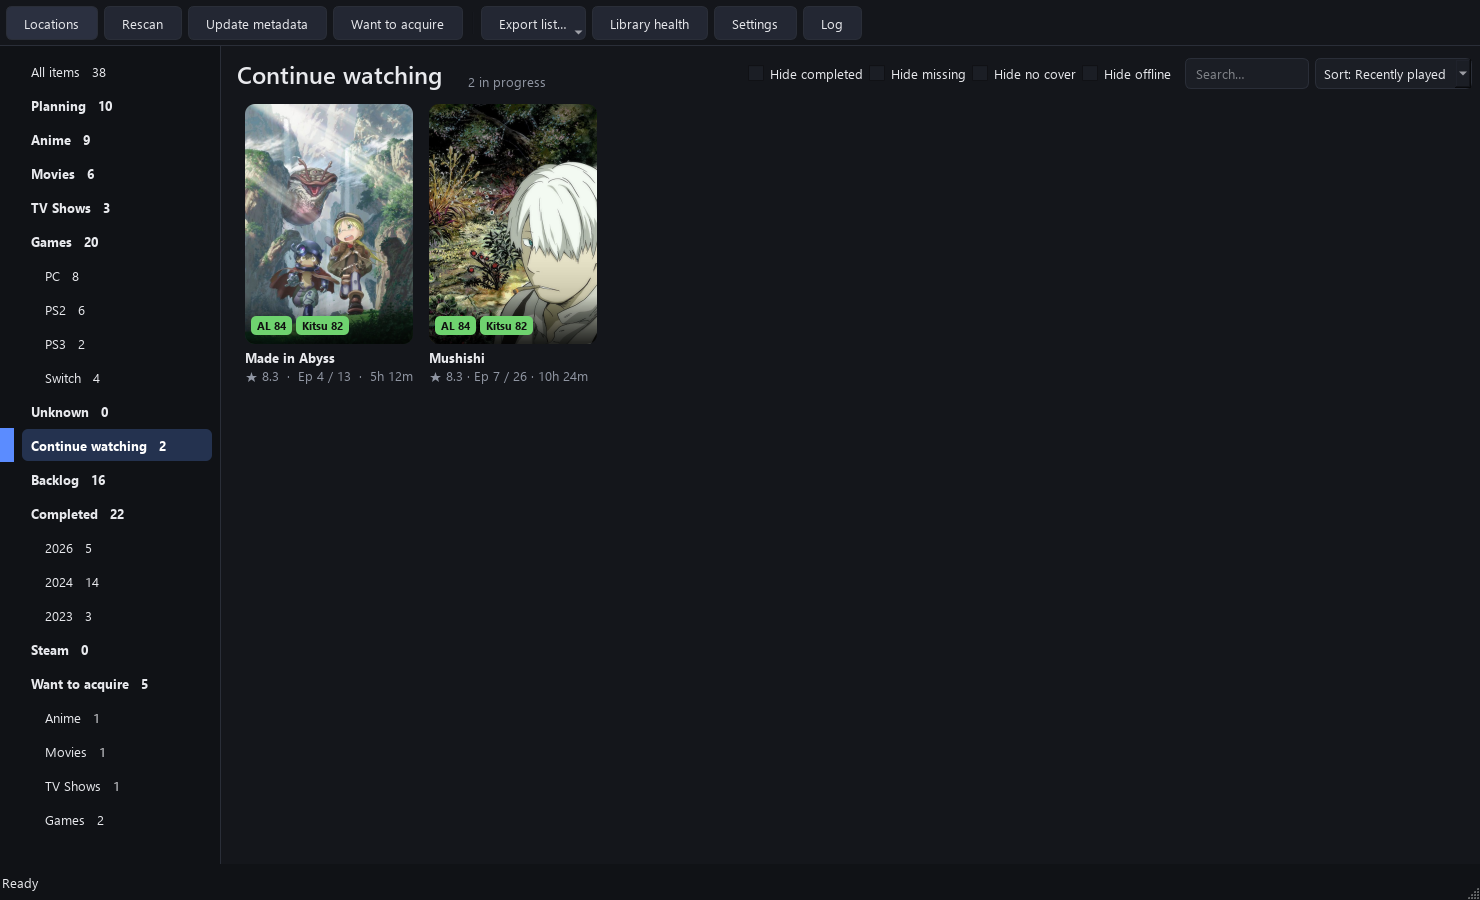
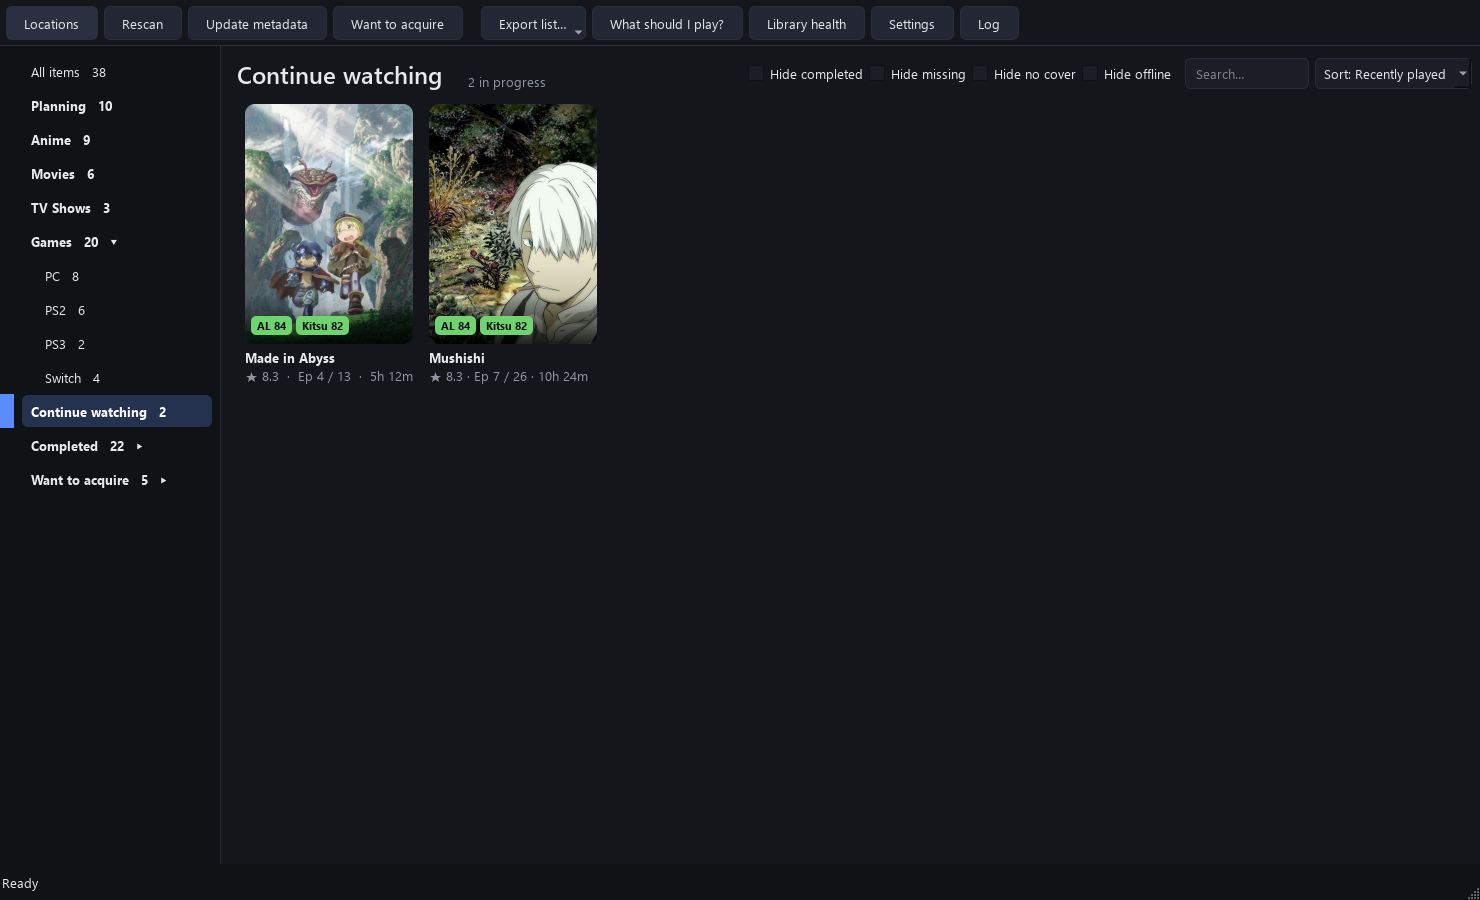
Leaner sidebar: Steam under Games, no Backlog, foldable sections
- Steam account games are a child of Games (Include Steam still adds them to
  Games / All items); hidden when no account is linked.
- The Backlog entry and its view are gone (the picker still uses the
  backlog); an empty Unknown and empty Want to acquire sections hide.
- Games, Completed and Want to acquire fold (shown as ▸ / ▾ after the
  count; double-click, or click a selected section); remembered, folded by
  default, and a selected entry opens its section.
- README and screenshots updated.

diff --git a/tracking/ui/main_window.py b/tracking/ui/main_window.py
@@ -62,7 +62,6 @@ COMPLETED = "completed"  # sidebar navigation: (COMPLETED, year or None)
 PLANNING = "planning"  # sidebar navigation: (PLANNING, None), the Planning board
 FOCUS = "focus"  # (FOCUS, heading): a list picked elsewhere (Library health › Show)
 WATCHING = "watching"  # sidebar navigation: (WATCHING, None), series you're partway through
-BACKLOG = "backlog"  # sidebar navigation: (BACKLOG, category or None), owned and not finished
 STEAM = "steam"  # sidebar navigation: (STEAM, None) is the games of your Steam accounts
 
 
@@ -83,6 +82,16 @@ def watching(item: db.Item) -> bool:
 def played_order(item: db.Item) -> tuple:
     """"Time played" sort: most played first, never-played next, unknown last."""
     return (item.playtime_min is None, -(item.playtime_min or 0), item.title.lower())
+
+
+TextRole = Qt.UserRole + 11  # a sidebar section's text without its ▸ / ▾
+
+
+def _chevron(node: QTreeWidgetItem) -> None:
+    """▸ folded / ▾ open after a section's count (the theme hides Qt's own arrows)."""
+    base = node.data(0, TextRole) or node.text(0)
+    if node.childCount():
+        node.setText(0, f"{base}   {'▾' if node.isExpanded() else '▸'}")
 
 
 def _child_node(parent: QTreeWidgetItem, text: str, nav: tuple) -> QTreeWidgetItem:
@@ -183,6 +192,12 @@ class MainWindow(QMainWindow):
         self.sidebar.setMinimumWidth(200)
         self.sidebar.setMaximumWidth(280)
         self.sidebar.currentItemChanged.connect(self._nav_changed)
+        self.sidebar.itemExpanded.connect(self._section_folded)
+        self.sidebar.itemCollapsed.connect(self._section_folded)
+        # A second click on a selected section opens / closes it (double-click does too).
+        self.sidebar.itemClicked.connect(self._toggle_if_selected)
+        self._was_current = None
+        self.sidebar.currentItemChanged.connect(lambda cur, prev: setattr(self, "_was_current", prev))
         split.addWidget(self.sidebar)
 
         self.stack = QStackedWidget()
@@ -563,6 +578,30 @@ class MainWindow(QMainWindow):
         """The page to go back to from an item: the board, a Completed year, or the grid."""
         return {COMPLETED: 2, PLANNING: 3}.get(self.nav[0], 0)
 
+    SIDEBAR_OPEN = "sidebar_open"
+
+    def _open_sections(self) -> set[str]:
+        with db.session() as conn:
+            saved = db.get_setting(conn, self.SIDEBAR_OPEN, None)
+        return set(saved.split(",")) if saved is not None else set()
+
+    def _section_folded(self, node: QTreeWidgetItem, *_) -> None:
+        """Remember which sidebar sections are open."""
+        nav = node.data(0, NavRole)
+        if not nav or node.parent() is not None:
+            return
+        _chevron(node)
+        key = nav[0] or ""
+        open_ = self._open_sections()
+        open_ = open_ | {key} if node.isExpanded() else open_ - {key}
+        with db.session() as conn:
+            db.set_setting(conn, self.SIDEBAR_OPEN, ",".join(sorted(k for k in open_ if k)))
+
+    def _toggle_if_selected(self, item: QTreeWidgetItem, _col: int = 0) -> None:
+        if item.childCount() and self._was_current is item:
+            item.setExpanded(not item.isExpanded())
+        self._was_current = item
+
     def _top_node(self, text: str, nav: tuple, tip: str | None = None) -> QTreeWidgetItem:
         """A bold top-level sidebar entry."""
         node = QTreeWidgetItem([text])
@@ -591,16 +630,28 @@ class MainWindow(QMainWindow):
                               "Up next, Playing / Watching, On hold and Done this year")
         if self.nav == (PLANNING, None):
             current = plan
+        open_ = self._open_sections()
+        parents: list[tuple[QTreeWidgetItem, str]] = []
         for key, label in SECTIONS:
-            node = self._top_node(f"{label}   {counts.get(key, 0)}", (key, None))
+            n = counts.get(key, 0)
+            if not n and key == "unknown" and self.nav[0] != key:
+                continue  # an empty "Unknown" is just noise
+            node = self._top_node(f"{label}   {n}", (key, None))
             if self.nav == (key, None):
                 current = node
             if key == "game":
-                for plat, n in plats.items():
-                    child = _child_node(node, f"{plat}   {n}", ("game", plat))
+                for plat, pn in plats.items():
+                    child = _child_node(node, f"{plat}   {pn}", ("game", plat))
                     if self.nav == ("game", plat):
                         current = child
-                node.setExpanded(True)
+                if steam_games or self.nav[0] == STEAM:
+                    # Steam account games: here, apart from the library (Include Steam adds
+                    # them to Games and All items).
+                    child = _child_node(node, f"Steam   {steam_games}", (STEAM, None))
+                    child.setToolTip(0, "Games from your Steam account, with play time")
+                    if self.nav == (STEAM, None):
+                        current = child
+                parents.append((node, "game"))
 
         # Continue watching: series you're partway through (only when there are some).
         started = sum(1 for i in self.all_items if watching(i))
@@ -609,21 +660,6 @@ class MainWindow(QMainWindow):
                                   "Series you've started playing from here, most recent first")
             if self.nav == (WATCHING, None):
                 current = node
-
-        # Backlog: what you have and haven't finished yet, per section.
-        backlog: dict[str, int] = {}
-        for i in self.all_items:
-            if in_backlog(i):
-                backlog[i.category] = backlog.get(i.category, 0) + 1
-        node = self._top_node(f"Backlog   {sum(backlog.values())}", (BACKLOG, None),
-                              "What you have and haven't finished. Try Sort: Shortest first.")
-        if self.nav == (BACKLOG, None):
-            current = node
-        for key, label in SECTIONS:
-            if backlog.get(key):
-                child = _child_node(node, f"{label}   {backlog[key]}", (BACKLOG, key))
-                if self.nav == (BACKLOG, key):
-                    current = child
 
         # Completed: everything you finished, per year (also entries outside the library).
         done_years = done_years or {}
@@ -636,27 +672,27 @@ class MainWindow(QMainWindow):
             child = _child_node(done, f"{year}   {n}", (COMPLETED, year))
             if self.nav == (COMPLETED, year):
                 current = child
-        done.setExpanded(True)
+        parents.append((done, COMPLETED))
 
-        # Steam: the games your Steam accounts own, apart from the library.
-        node = self._top_node(f"Steam   {steam_games}", (STEAM, None),
-                              "Games from your Steam account, with play time "
-                              "(Locations › Add Steam account)")
-        if self.nav == (STEAM, None):
-            current = node
-
-        # "Want to acquire": things you don't have yet, per section.
+        # "Want to acquire": things you don't have yet, per section (only sections with some).
         wanted = wanted or {}
         want = self._top_node(f"Want to acquire   {sum(wanted.values())}", (WANT, None))
         if self.nav == (WANT, None):
             current = want
         for key, label in SECTIONS:
-            if key == "unknown":
+            if not wanted.get(key) and self.nav != (WANT, key):
                 continue
             child = _child_node(want, f"{label}   {wanted.get(key, 0)}", (WANT, key))
             if self.nav == (WANT, key):
                 current = child
-        want.setExpanded(True)
+        parents.append((want, WANT))
+
+        # Subsections fold away (the arrow, or double-click); what's open is remembered,
+        # and a selected entry inside a folded section opens it.
+        for node, key in parents:
+            node.setData(0, TextRole, node.text(0))
+            node.setExpanded(key in open_ or current.parent() is node)
+            _chevron(node)
         if self.nav[0] != FOCUS:  # a Library health list isn't a sidebar entry
             self.sidebar.setCurrentItem(current)
         else:
@@ -703,10 +739,9 @@ class MainWindow(QMainWindow):
             self.count.setToolTip("Enter opens a series, Ctrl+Enter plays its next episode")
             self.model.set_items(items)
             return
-        backlog_view = self.nav[0] == BACKLOG
         view = self.nav[0] if self.nav[0] in (WANT, STEAM) else None
         wanted_view, steam_view = view == WANT, view == STEAM
-        category, platform = (self.nav[1], None) if (view or backlog_view) else self.nav
+        category, platform = (self.nav[1], None) if view else self.nav
         needle = self.search.text().strip().lower()
         hide_done, hide_missing = self.hide_done.isChecked(), self.hide_missing.isChecked()
         hide_no_cover = self.hide_no_cover.isChecked()
@@ -714,7 +749,7 @@ class MainWindow(QMainWindow):
         games_view = category == "game"
         self.install.setVisible(games_view)
         inst = self.install.currentData() if games_view else ""
-        library_view = view is None and not backlog_view
+        library_view = view is None
         self.include_steam.setVisible(library_view and category in (None, "game")
                                       and any(view_of(i) == STEAM for i in self.all_items))
         with_steam = library_view and self.include_steam.isChecked()
@@ -723,7 +758,6 @@ class MainWindow(QMainWindow):
             i for i in self.all_items
             if (view_of(i) == view
                 or (with_steam and view_of(i) == STEAM and i.id not in dupes))
-            and (not backlog_view or in_backlog(i))
             and (not category or i.category == category)
             and (not platform or (i.platform or db.UNKNOWN_PLATFORM) == platform)
             and (not needle or needle in i.title.lower() or needle in i.rel_path.lower())
@@ -761,8 +795,6 @@ class MainWindow(QMainWindow):
             heading = f"Want to acquire · {heading}" if category else "Want to acquire"
         if steam_view:
             heading = "Steam"
-        if backlog_view:
-            heading = f"Backlog · {heading}" if category else "Backlog"
         self.heading.setText(heading)
         self.add_btn.setVisible(wanted_view or steam_view)
         self.add_btn.setText("+ Add Steam account…" if steam_view else "+ Add…")
@@ -773,9 +805,6 @@ class MainWindow(QMainWindow):
             played_h = sum(i.playtime_min or 0 for i in items) / 60
             done = sum(1 for i in items if i.completed)
             self.count.setText(f"{len(items)} games · {played_h:,.0f} h played · {done} completed")
-        elif backlog_view:
-            total_h = sum(i.total_hours or 0 for i in items)
-            self.count.setText(f"{len(items)} not finished yet · {total_h:,.0f} h in all")
         elif wanted_view:
             total_h = sum(i.total_hours or 0 for i in items)
             self.count.setText(f"{len(items)} items · {total_h:,.0f} h if you got them all")

diff --git a/tests/test_extras.py b/tests/test_extras.py
@@ -71,22 +71,43 @@ def test_presets_and_stamp(conn, qt):
     assert corner(plain) != corner(stamped)
 
 
-def test_backlog_and_shortest_first(conn, qt):
+def test_shortest_first_and_hide_completed(conn, qt):
     from tracking.ui import main_window
 
     _item(conn, "Long", hltb_hours=80.0)
     _item(conn, "Short", hltb_hours=5.0)
     _item(conn, "Unknown length")
     done = _item(conn, "Finished", hltb_hours=1.0, completed=1)
-    _item(conn, "Gone", hltb_hours=2.0, missing=1)
-    library.add_wanted(conn, "game", "Wanted", 2025)
     conn.commit()
     w = main_window.MainWindow()
-    w.nav = (main_window.BACKLOG, None)
+    w.nav = ("game", None)
     w.sort.setCurrentIndex(w.sort.findData("short"))
+    w.hide_done.setChecked(True)
     w.reload()
     assert [i.title for i in w.model.items] == ["Short", "Long", "Unknown length"]
     assert done not in {i.id for i in w.model.items}
+    assert library.in_backlog(next(i for i in w.all_items if i.title == "Short"))
+
+
+def test_lean_sidebar_folds_and_remembers(conn, qt):
+    from tracking.ui import main_window
+
+    _item(conn, "Okami")
+    conn.execute("INSERT INTO items(volume_uid, rel_path, is_dir, category, platform, title, source) "
+                 "VALUES('steam:1', 'app/1', 0, 'game', 'PC', 'Celeste', 'steam')")
+    conn.commit()
+    w = main_window.MainWindow()
+    tops = {w.sidebar.topLevelItem(i).text(0).split("   ")[0]: w.sidebar.topLevelItem(i)
+            for i in range(w.sidebar.topLevelItemCount())}
+    assert "Backlog" not in tops and "Steam" not in tops and "Unknown" not in tops
+    games = tops["Games"]
+    kids = [games.child(i).text(0).split("   ")[0] for i in range(games.childCount())]
+    assert kids == ["PS2", "Steam"] and not games.isExpanded()           # folded by default
+    games.setExpanded(True)                                               # you open it...
+    w.reload()
+    tops = {w.sidebar.topLevelItem(i).text(0).split("   ")[0]: w.sidebar.topLevelItem(i)
+            for i in range(w.sidebar.topLevelItemCount())}
+    assert tops["Games"].isExpanded()                                     # ...and it stays open
 
 
 def test_duplicates_and_health(conn):

diff --git a/tests/test_steam_account.py b/tests/test_steam_account.py
@@ -246,7 +246,9 @@ def test_steam_section_in_window(conn, monkeypatch):
     w = mw.MainWindow()
     try:
         tops = [w.sidebar.topLevelItem(n) for n in range(w.sidebar.topLevelItemCount())]
-        assert [t.text(0) for t in tops if t.data(0, mw.NavRole)[0] == mw.STEAM] == ["Steam   3"]
+        games = next(t for t in tops if t.data(0, mw.NavRole) == ("game", None))
+        kids = [games.child(n) for n in range(games.childCount())]   # Steam lives under Games
+        assert [k.text(0) for k in kids if k.data(0, mw.NavRole)[0] == mw.STEAM] == ["Steam   3"]
         assert tops[0].text(0) == "All items   0"         # not counted in the library
         w.nav = (None, None)
         w.apply_filter()

diff --git a/README.md b/README.md
@@ -31,8 +31,6 @@ remembers what you've finished, even when the drive is unplugged.
 - ⏱ **Total time** for everything: the runtime of all episodes, or HowLongToBeat hours for games.
 - ✅ **Completed log by year**: mark things done, import old years from CSV, edit dates, see
   each year's stats, and **export a year as a cover-grid image**.
-- 📚 **Backlog**: what you own and haven't finished, with a *Shortest first* sort for
-  "what next?".
 - 🗂 **Planning board**: *Up next*, *Playing / Watching*, *On hold* and *Done this year* for
   games, anime, movies and TV (show one section or combine several). Drag cards between columns; playing
   something moves it to *Playing* by itself, and each column adds up the hours left.
@@ -43,8 +41,10 @@ remembers what you've finished, even when the drive is unplugged.
 - ▶ **Play from the library**: PC games start their own .exe, console games open in the
   emulator you pick per platform (zipped discs are unpacked for you), Steam games in Steam.
   Filter games by *Installed*, *Installer* or *ROM / disc*, and sort by *Recently played*.
-- 🎮 **Steam accounts**: your owned games with **time played**, in their own section.
-- 🎲 **What should I play?**: one suggestion at a time from Up next and your Backlog, by
+- 🎮 **Steam accounts**: your owned games with **time played**, under Games › Steam; tick
+  *Include Steam* to see them with the rest of your games.
+- 🎲 **What should I play?**: one suggestion at a time from Up next and your backlog (what you
+  own and haven't finished), by
   section, length ("under 10 h") and what's on connected drives.
 - 📅 **Coming up** on each page: a show's next episode, when an anime's next episode airs, a
   game's release date and Steam sales.
@@ -105,20 +105,17 @@ with progress and hours left on every card.</sub></p>
       in bold); next episodes and air dates for shows and anime.</sub></td>
   </tr>
   <tr>
-    <td><img src="docs/images/backlog.png" alt="Backlog"><br>
-      <sub><b>Backlog</b>: what you have and haven't finished, here sorted
-      <i>Shortest first</i>.</sub></td>
+    <td><img src="docs/images/health.png" alt="Library health"><br>
+      <sub><b>Library health</b>: what needs a look, with Show and Fetch again.</sub></td>
     <td><img src="docs/images/want.png" alt="Want to acquire"><br>
       <sub><b>Want to acquire</b>: things you don't have yet, with covers and scores.</sub></td>
   </tr>
 </table>
 
 <details>
-<summary><b>More</b>: the exported image, and Library health</summary>
+<summary><b>More</b>: the exported image</summary>
 <br>
 <img src="docs/images/completed-2024.jpg" alt="Games completed in 2024" width="560">
-<br><br>
-<img src="docs/images/health.png" alt="Library health" width="560">
 </details>
 
 ## Getting started
@@ -152,7 +149,8 @@ holds (or leave *Auto-detect*), and it's scanned right away. Then:
 | **Ctrl+N** | Add to *Want to acquire*, or a *Completed* entry when you're there |
 | **Right-click** | Move to another section / platform, complete, refetch, remove |
 | **Export list…** | A spreadsheet of the items missing a cover or scores, or of what's shown |
-| **What should I play?** (Ctrl+R) | A random pick from Up next / Backlog, with filters |
+| **What should I play?** (Ctrl+R) | A random pick from Up next / your backlog, with filters |
+| **Sidebar** | Games, Completed and Want to acquire fold (▸ / ▾): double-click, or click a selected one; remembered |
 | **Export list… › For other trackers** | MyAnimeList XML, Letterboxd CSVs, or one CSV of everything |
 | **Library health…** (Ctrl+H) | What needs a look, with *Show* and *Fetch again* |
 | **Right-click › Plan** | Put items on the Planning board (Up next, Playing, On hold) or drop them |
